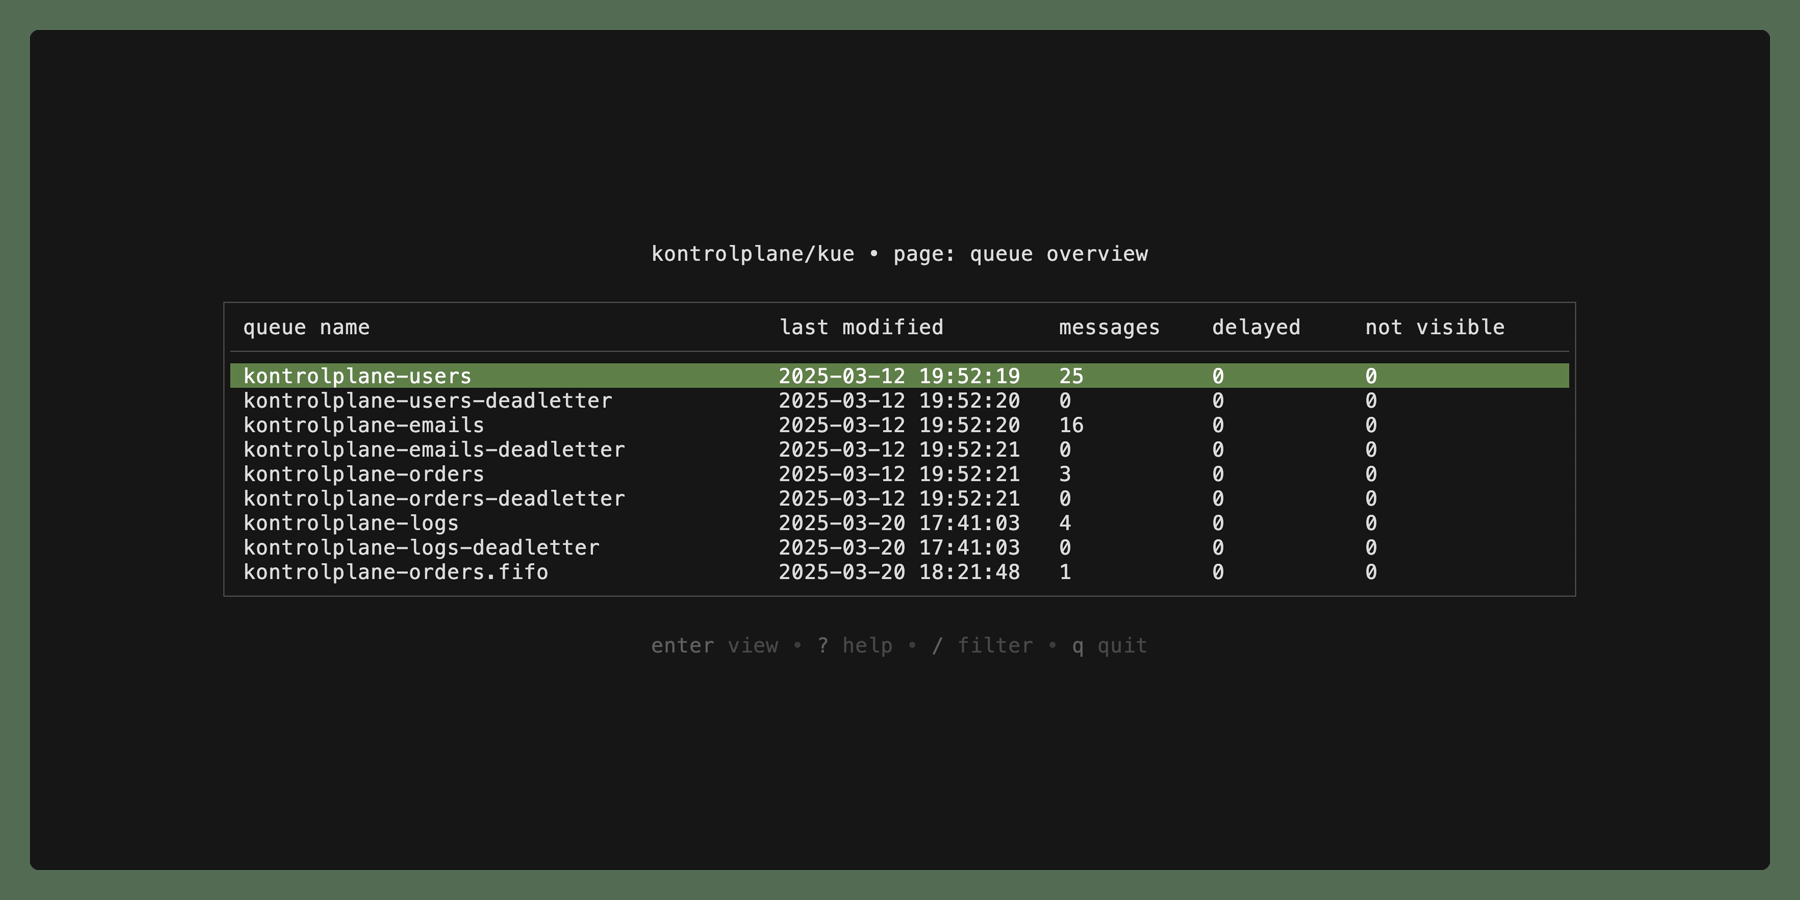
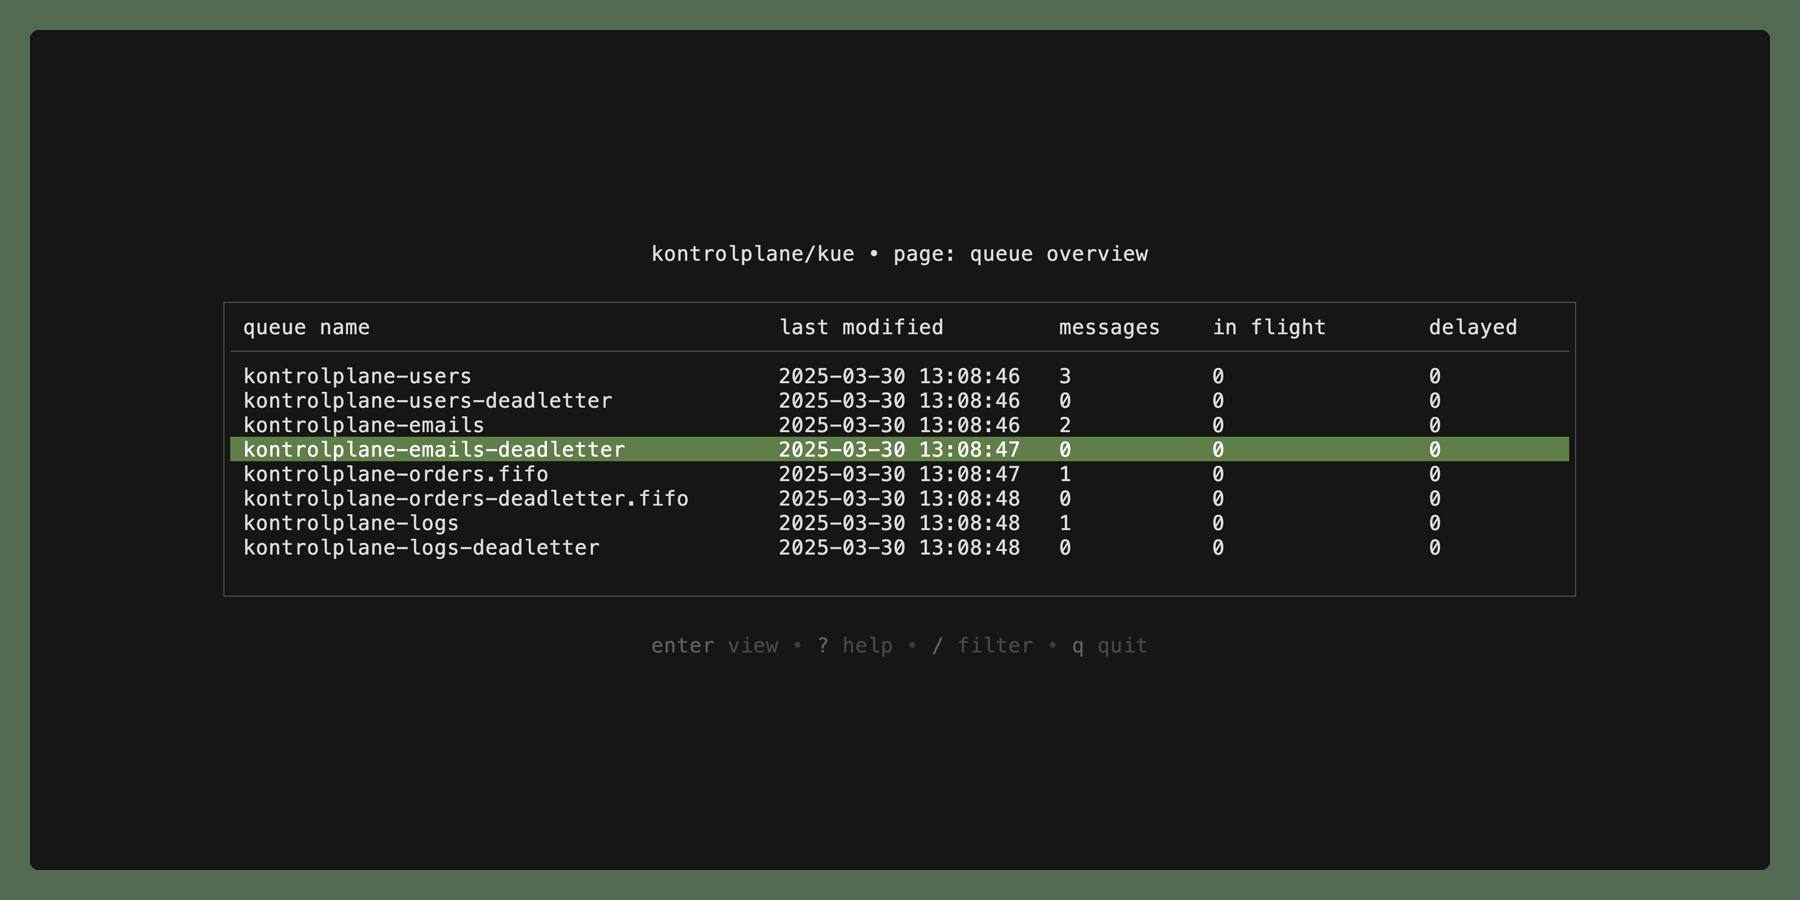
fix: ensure rendering bubbles table works with selected view in the table

Changed region(s): [[0.1244, 0.4044, 0.8711, 0.6533], [0.6533, 0.3422, 0.84, 0.3733], [0.1244, 0.6222, 0.3111, 0.6533]]

diff --git a/pkg/tui/queue_overview.go b/pkg/tui/queue_overview.go
@@ -114,9 +114,11 @@ func (m model) QueueOverviewUpdate(msg tea.Msg) (model, tea.Cmd) {
 	case tea.KeyMsg:
 		switch {
 		case key.Matches(msg, m.keys.Down):
-			return m.nextQueue()
+			m, cmd = m.nextQueue()
+			m.state.queueOverview.table.SetCursor(m.state.queueOverview.selected)
 		case key.Matches(msg, m.keys.Up):
-			return m.previousQueue()
+			m, cmd = m.previousQueue()
+			m.state.queueOverview.table.SetCursor(m.state.queueOverview.selected)
 		case key.Matches(msg, m.keys.View):
 			selected := m.state.queueOverview.table.Cursor()
 			if selected >= 0 && selected < len(m.state.queueOverview.queues) {
@@ -129,7 +131,6 @@ func (m model) QueueOverviewUpdate(msg tea.Msg) (model, tea.Cmd) {
 		default:
 			m.state.queueOverview.table, cmd = m.state.queueOverview.table.Update(msg)
 		}
-
 	default:
 		m.state.queueOverview.table, cmd = m.state.queueOverview.table.Update(msg)
 	}
@@ -142,10 +143,7 @@ func (m model) QueueOverviewView() string {
 	log.Println("[QueueOverviewView] queues:", m.state.queueOverview.queues)
 
 	if m.NoQueuesFound() {
-
-		// add row spanning the whole table 'No queue's found.'
-
-		return m.state.queueOverview.table.View()
+		return "No queues found."
 	}
 
 	var queueOverviewRows []table.Row
@@ -161,6 +159,7 @@ func (m model) QueueOverviewView() string {
 	}
 
 	m.state.queueOverview.table.SetRows(queueOverviewRows)
+	m.state.queueOverview.table.SetCursor(m.state.queueOverview.selected)
 
 	return m.state.queueOverview.table.View()
 }
